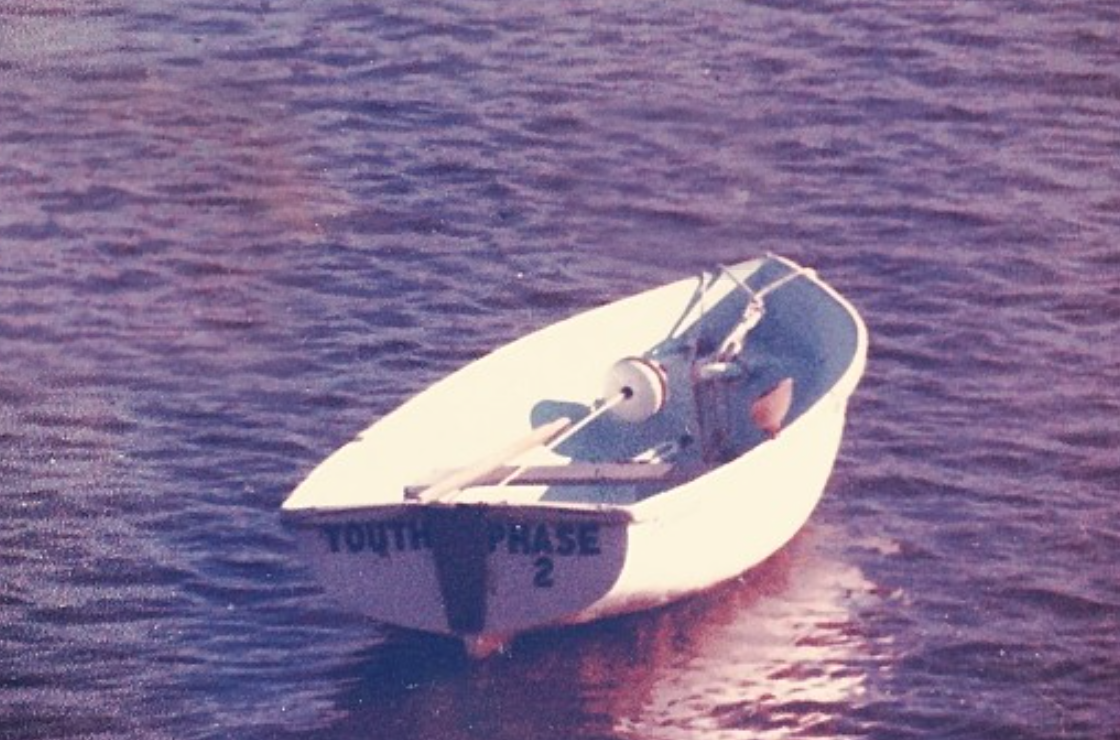
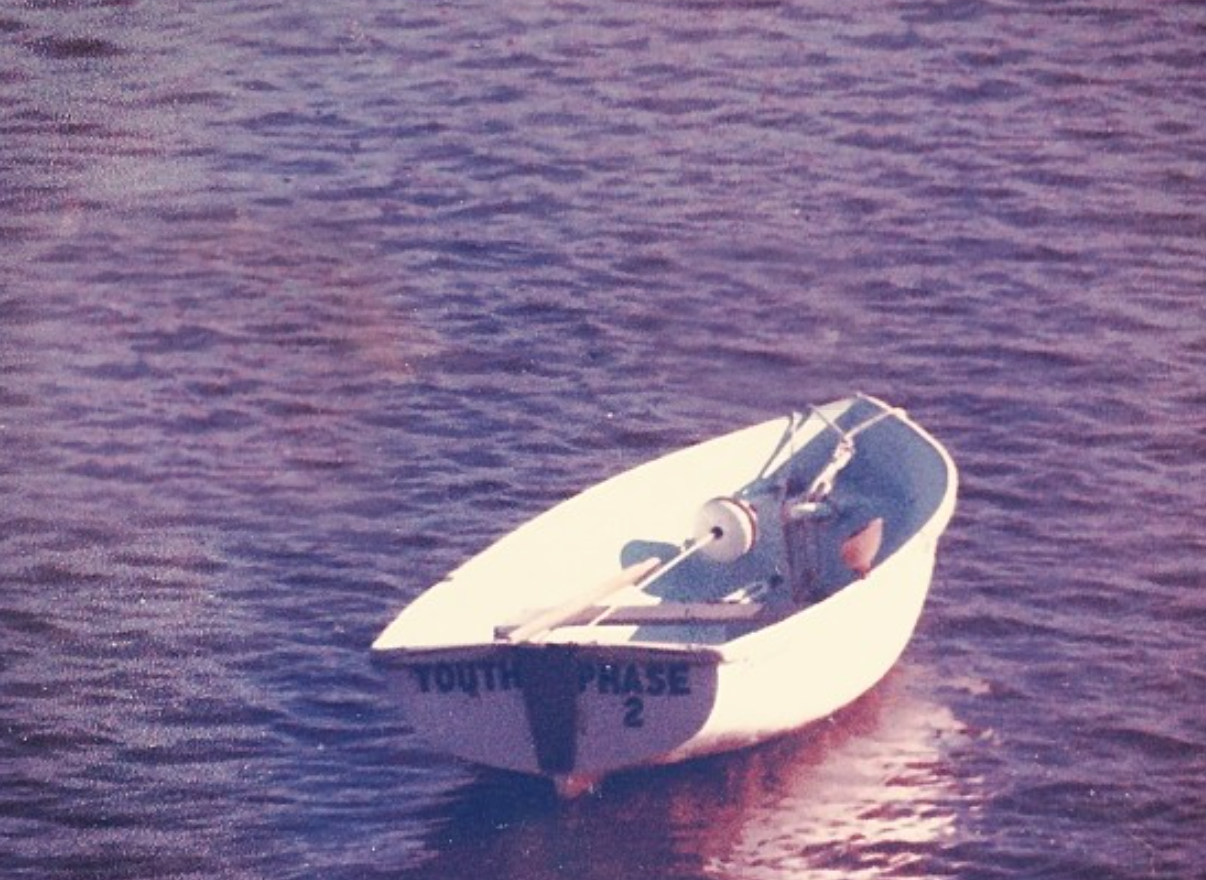
Zoomed-out print, richer frame carving, inline validation
The print steps back — more open water around the boat, the
bottom-right sun-shadow kept. The frame gains its gadrooned edge (a
striped border-image reading as twisted rope molding) and larger
double-ring corner medallions; as ornate as gradients honestly get. A
raster frame asset can replace it via border-image if true baroque
relief is wanted.

Validation drops the browser bubbles for inline messages in the site's
voice ("i need an email to write back to"), shown under the field with
aria-invalid + aria-describedby, focus moved to the first invalid
field, a full-strength ink border (no semantic red — the palette
doesn't have one), and errors clearing as you type. The design-system
page documents the pattern; the form test asserts it.

diff --git a/tests/a11y.spec.ts b/tests/a11y.spec.ts
@@ -35,8 +35,13 @@ test('contact page has no axe violations', async ({ page }) => {
 
 test('contact form blocks empty submits and reports errors politely', async ({ page }) => {
   await page.goto('/contact');
-  // Empty submit: native validation stops it before any request.
+  // Empty submit: inline validation stops it before any request — the
+  // field-level messages appear, focus lands on the first invalid
+  // field, and the status line stays empty.
   await page.getByRole('button', { name: 'send' }).click();
+  await expect(page.locator('#contact-email-error')).toBeVisible();
+  await expect(page.locator('#contact-message-error')).toBeVisible();
+  await expect(page.getByRole('textbox', { name: 'email', exact: true })).toBeFocused();
   await expect(page.locator('#contact-status')).toHaveText('');
   // Filled submit against a dev server with no /api route: the error
   // state must surface in the aria-live line and keep the typed values.